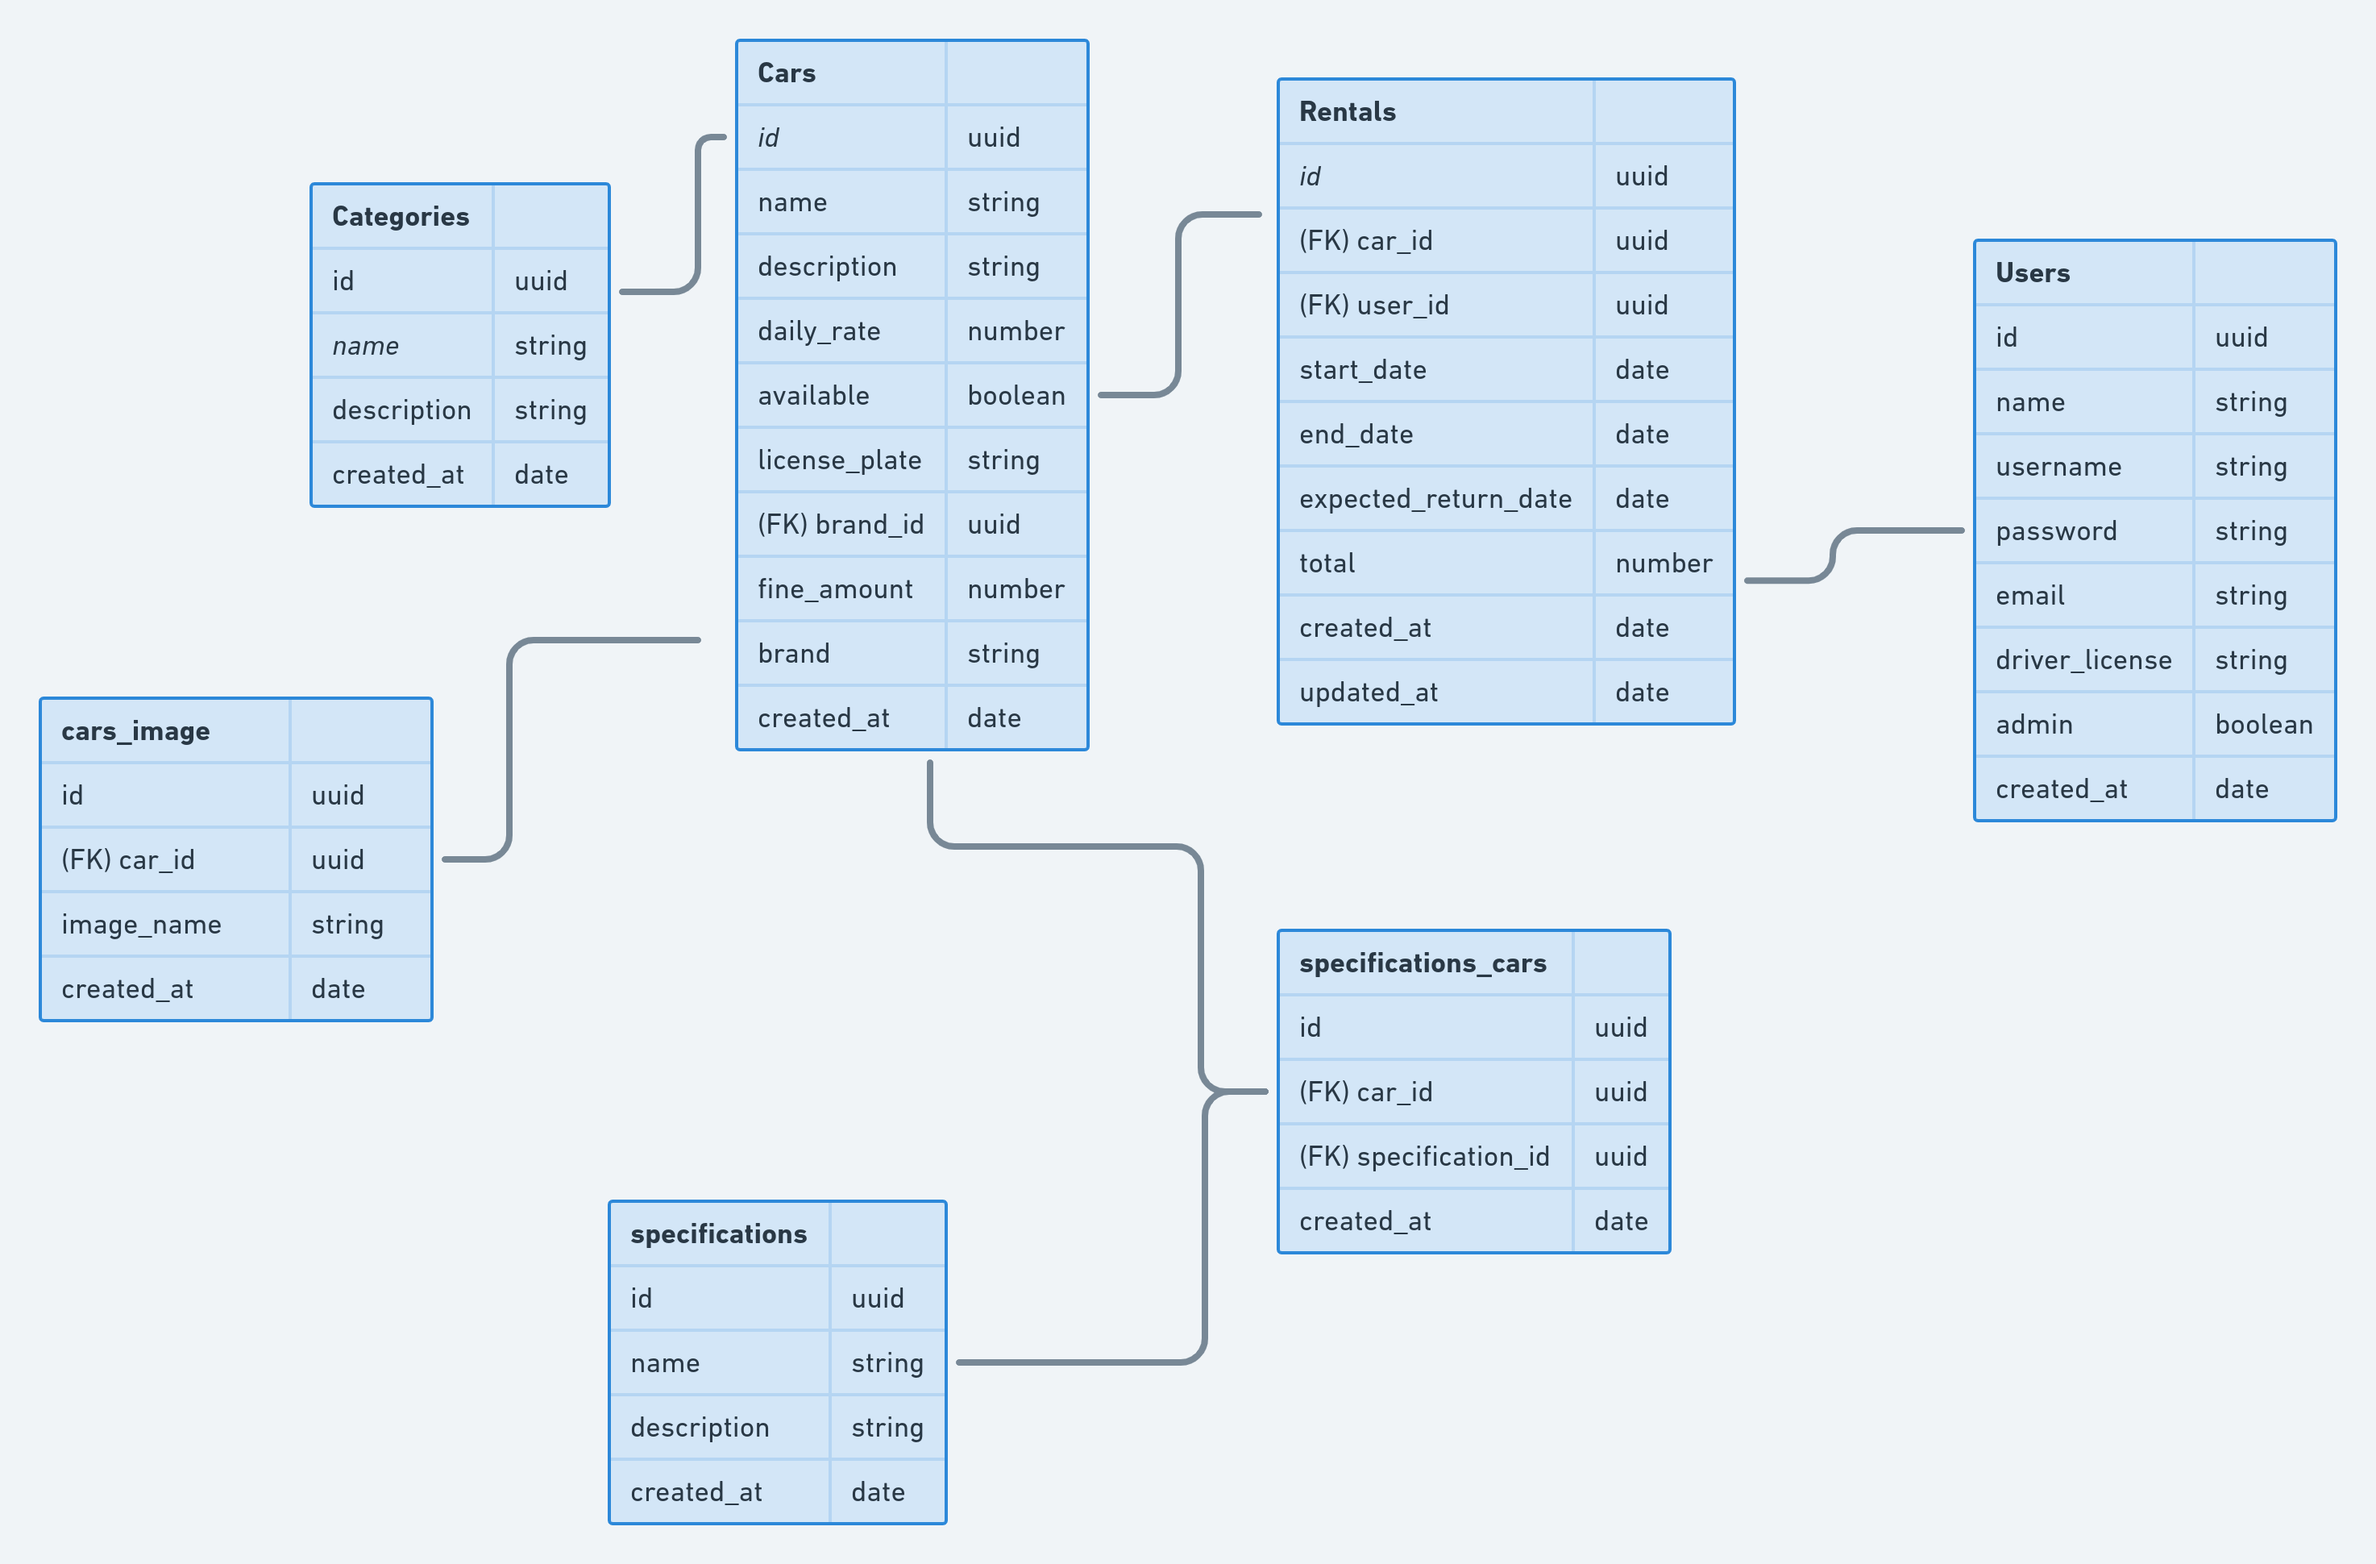
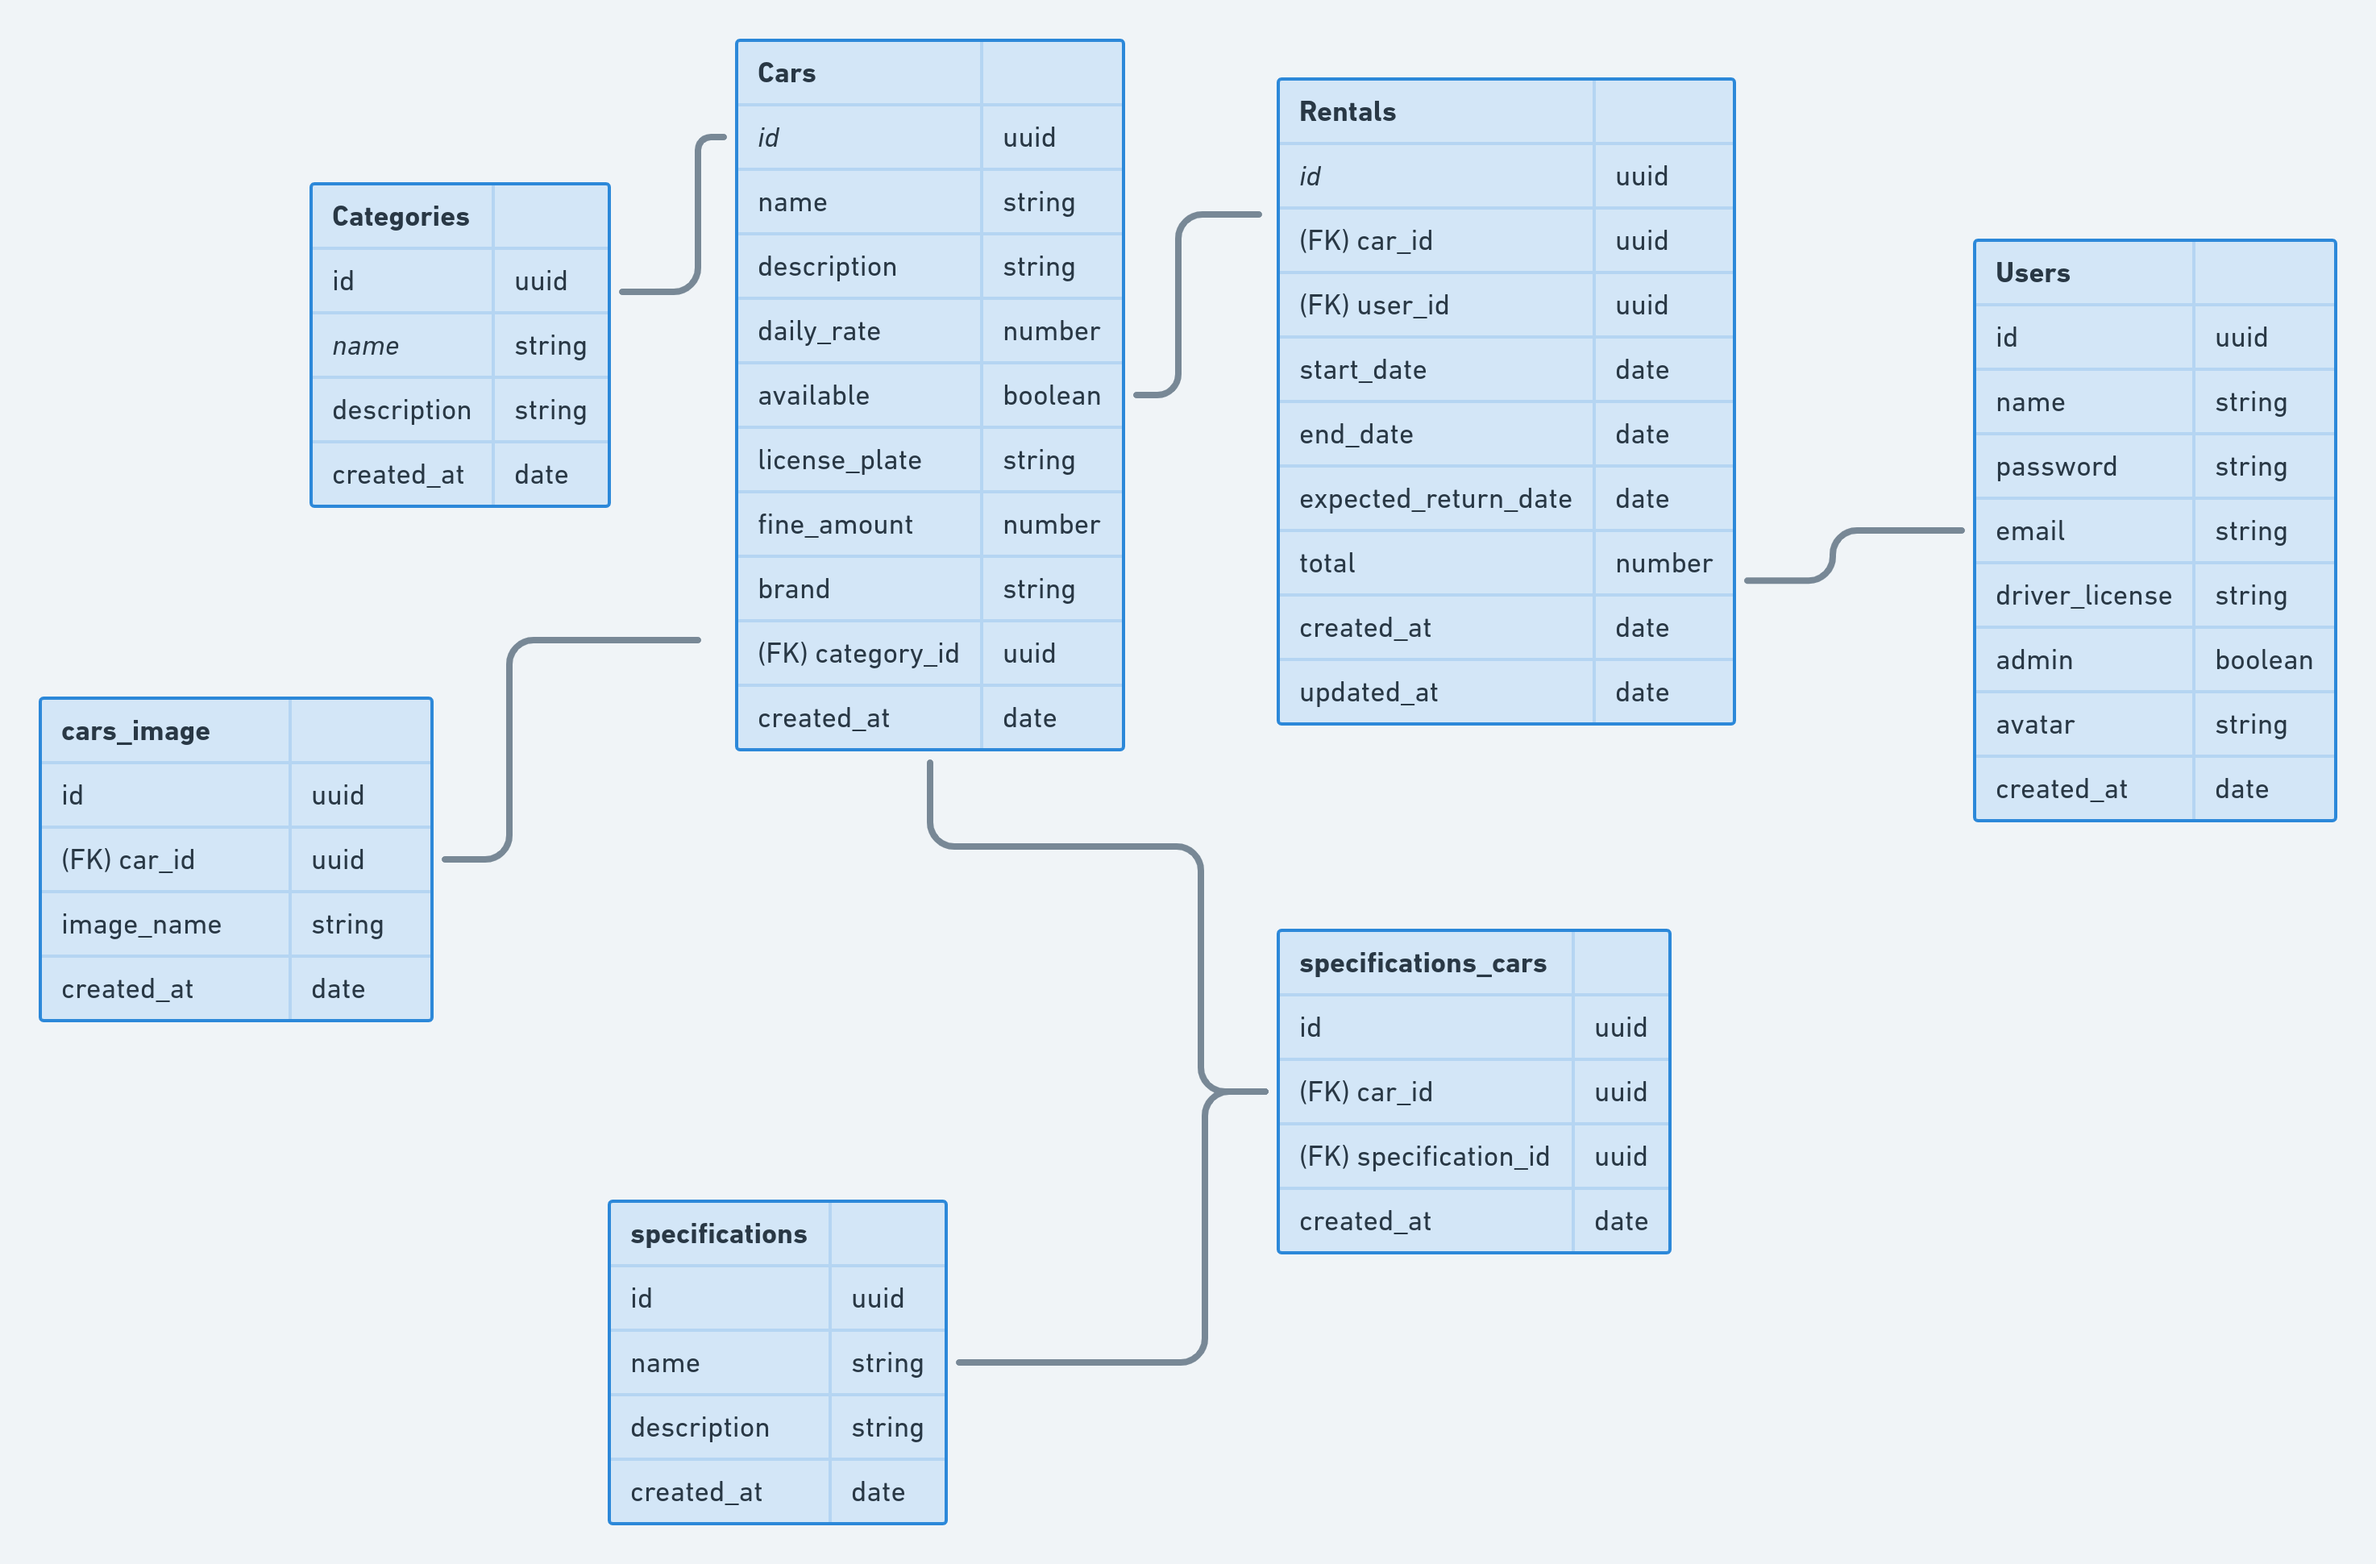
add Car Entity

diff --git a/src/modules/cars/useCases/createCar/CreateCarUseCase.spec.ts b/src/modules/cars/useCases/createCar/CreateCarUseCase.spec.ts
@@ -1,0 +1,60 @@
+import { CarsRepositoryInMemory } from "@modules/cars/repositories/in-memory/CarsRepositoryInMemory";
+import { AppError } from "@shared/errors/AppError";
+
+import { CreateCarUseCase } from "./CreateCarUseCase";
+
+let createCarUseCase: CreateCarUseCase;
+let carsRepositoryInMemory: CarsRepositoryInMemory;
+
+describe("Create car", () => {
+  beforeEach(() => {
+    carsRepositoryInMemory = new CarsRepositoryInMemory();
+    createCarUseCase = new CreateCarUseCase(carsRepositoryInMemory);
+  });
+  it("should be able to create a new car", () => {
+    const car = createCarUseCase.execute({
+      name: "Car name",
+      description: "Description name",
+      brand: "Car brand",
+      category_id: "category",
+      daily_rate: 100,
+      fine_amount: 500,
+      license_plate: "1234-ABC",
+    });
+    expect(car).toHaveProperty("id");
+  });
+  it("should not be able to create a car with the same license plate", () => {
+    expect(async () => {
+      await createCarUseCase.execute({
+        name: "Car name 01",
+        description: "Description name",
+        brand: "Car brand",
+        category_id: "category",
+        daily_rate: 100,
+        fine_amount: 500,
+        license_plate: "1234-ABC",
+      });
+      await createCarUseCase.execute({
+        name: "Car name 02",
+        description: "Description name",
+        brand: "Car brand",
+        category_id: "category",
+        daily_rate: 100,
+        fine_amount: 500,
+        license_plate: "1234-ABC",
+      });
+    }).rejects.toBeInstanceOf(AppError);
+  });
+  it("should be able to create a car with available true by default", async () => {
+    const car = await createCarUseCase.execute({
+      name: "Car Available",
+      description: "Description name",
+      brand: "Car brand",
+      category_id: "category",
+      daily_rate: 100,
+      fine_amount: 500,
+      license_plate: "12345-ABC",
+    });
+    expect(car.available).toBe(true);
+  });
+});

diff --git a/src/shared/infra/typeorm/migrations/1628206383263-CreateCars.ts b/src/shared/infra/typeorm/migrations/1628206383263-CreateCars.ts
@@ -1,0 +1,71 @@
+import { MigrationInterface, QueryRunner, Table } from "typeorm";
+
+export class CreateCars1628206383263 implements MigrationInterface {
+  public async up(queryRunner: QueryRunner): Promise<void> {
+    await queryRunner.createTable(
+      new Table({
+        name: "cars",
+        columns: [
+          {
+            name: "id",
+            type: "uuid",
+            isPrimary: true,
+          },
+          {
+            name: "name",
+            type: "varchar",
+          },
+          {
+            name: "description",
+            type: "varchar",
+          },
+          {
+            name: "daily_rate",
+            type: "numeric",
+          },
+          {
+            name: "available",
+            type: "boolean",
+            default: true,
+          },
+          {
+            name: "license_plate",
+            type: "varchar",
+          },
+          {
+            name: "fine_amount",
+            type: "numeric",
+          },
+          {
+            name: "brand",
+            type: "varchar",
+          },
+          {
+            name: "category_id",
+            type: "uuid",
+            isNullable: true,
+          },
+          {
+            name: "created_at",
+            type: "timestamp",
+            default: "now()",
+          },
+        ],
+        foreignKeys: [
+          {
+            name: "FKCategoryCar",
+            referencedTableName: "categories",
+            referencedColumnNames: ["id"],
+            columnNames: ["category_id"],
+            onDelete: "SET NULL",
+            onUpdate: "SET NULL",
+          },
+        ],
+      })
+    );
+  }
+
+  public async down(queryRunner: QueryRunner): Promise<void> {
+    await queryRunner.dropTable("cars");
+  }
+}

diff --git a/src/modules/cars/useCases/createCar/CreateCarUseCase.ts b/src/modules/cars/useCases/createCar/CreateCarUseCase.ts
@@ -1,0 +1,45 @@
+import { Car } from "@modules/cars/infra/typeorm/entities/Car";
+import { CarsRepositoryInMemory } from "@modules/cars/repositories/in-memory/CarsRepositoryInMemory";
+import { AppError } from "@shared/errors/AppError";
+
+interface IRequest {
+  name: string;
+  description: string;
+  daily_rate: number;
+  license_plate: string;
+  fine_amount: number;
+  brand: string;
+  category_id: string;
+}
+
+class CreateCarUseCase {
+  constructor(private carsRepository: CarsRepositoryInMemory) {}
+  async execute({
+    name,
+    description,
+    brand,
+    category_id,
+    daily_rate,
+    fine_amount,
+    license_plate,
+  }: IRequest): Promise<Car> {
+    const carAlreadyExists = await this.carsRepository.findByLicensePlate(
+      license_plate
+    );
+    if (carAlreadyExists) {
+      throw new AppError("Car already exists");
+    }
+    const car = await this.carsRepository.create({
+      name,
+      description,
+      brand,
+      category_id,
+      daily_rate,
+      fine_amount,
+      license_plate,
+    });
+    return car;
+  }
+}
+
+export { CreateCarUseCase };

diff --git a/src/modules/cars/repositories/in-memory/CarsRepositoryInMemory.ts b/src/modules/cars/repositories/in-memory/CarsRepositoryInMemory.ts
@@ -1,0 +1,36 @@
+import { ICreateCarDTO } from "@modules/cars/dtos/ICreateCarDTO";
+import { Car } from "@modules/cars/infra/typeorm/entities/Car";
+
+import { ICarsRepository } from "../IcarsRepository";
+
+class CarsRepositoryInMemory implements ICarsRepository {
+  cars: Car[] = [];
+
+  async create({
+    name,
+    description,
+    brand,
+    category_id,
+    daily_rate,
+    fine_amount,
+    license_plate,
+  }: ICreateCarDTO): Promise<Car> {
+    const car = new Car();
+    Object.assign(car, {
+      name,
+      description,
+      brand,
+      category_id,
+      daily_rate,
+      fine_amount,
+      license_plate,
+    });
+    this.cars.push(car);
+    return car;
+  }
+  async findByLicensePlate(license_plate: string): Promise<Car> {
+    return this.cars.find((car) => car.license_plate === license_plate);
+  }
+}
+
+export { CarsRepositoryInMemory };

diff --git a/src/modules/cars/infra/typeorm/entities/Car.ts b/src/modules/cars/infra/typeorm/entities/Car.ts
@@ -1,0 +1,33 @@
+import { v4 as uuidV4 } from "uuid";
+
+class Car {
+  id: string;
+
+  name: string;
+
+  description: string;
+
+  daily_rate: number;
+
+  available: boolean;
+
+  license_plate: string;
+
+  fine_amount: number;
+
+  brand: string;
+
+  created_at: Date;
+
+  category_id: string;
+
+  constructor() {
+    if (!this.id) {
+      this.id = uuidV4();
+      this.available = true;
+      this.created_at = new Date();
+    }
+  }
+}
+
+export { Car };

diff --git a/src/modules/accounts/repositories/in-memory/UsersRepositoryInMemory.ts b/src/modules/accounts/repositories/in-memory/UsersRepositoryInMemory.ts
@@ -1,5 +1,6 @@
-import { ICreateUserDTO } from "../../dtos/ICreateUserDTO";
-import { User } from "../../infra/typeorm/entities/User";
+import { ICreateUserDTO } from "@modules/accounts/dtos/ICreateUserDTO";
+import { User } from "@modules/accounts/infra/typeorm/entities/User";
+
 import { IUsersRepository } from "../IUserRepository";
 
 class UsersRepositoryInMemory implements IUsersRepository {

diff --git a/src/modules/cars/repositories/IcarsRepository.ts b/src/modules/cars/repositories/IcarsRepository.ts
@@ -1,0 +1,9 @@
+import { ICreateCarDTO } from "../dtos/ICreateCarDTO";
+import { Car } from "../infra/typeorm/entities/Car";
+
+interface ICarsRepository {
+  create(data: ICreateCarDTO): Promise<Car>;
+  findByLicensePlate(license_plate: string): Promise<Car>;
+}
+
+export { ICarsRepository };

diff --git a/src/modules/cars/dtos/ICreateCarDTO.ts b/src/modules/cars/dtos/ICreateCarDTO.ts
@@ -1,0 +1,11 @@
+interface ICreateCarDTO {
+  name: string;
+  description: string;
+  daily_rate: number;
+  license_plate: string;
+  fine_amount: number;
+  brand: string;
+  category_id: string;
+}
+
+export { ICreateCarDTO };

diff --git a/src/modules/cars/repositories/in-memory/CategoriesRepositoryInMemory.ts b/src/modules/cars/repositories/in-memory/CategoriesRepositoryInMemory.ts
@@ -1,4 +1,5 @@
-import { Category } from "../../infra/typeorm/entities/Category";
+import { Category } from "@modules/cars/infra/typeorm/entities/Category";
+
 import {
   ICategoriesRepository,
   ICreateCategoryDTO,

diff --git a/README.md b/README.md
@@ -1,0 +1,56 @@
+# Cadastro de carros
+
+**RF**
+Deve ser possível cadastrar um carro.
+
+**RN**
+Não deve ser possível cadastrar um carro com placa já existente.
+Não deve ser possível alterar a placa de um carro ja cadastrado.
+O carro deve ser cadastrado, por padrão, com disponibilidade.
+O usuário responsável pelo cadastro deve ser um usuário administrador.
+
+# Listagem de carros
+
+**RF**
+Deve ser possível listar todos os carros disponíveis.
+Deve ser possível listar todos os carros disponíveis pelo nome da categoria.
+Deve ser possível listar todos os carros disponíveis pelo nome da marca.
+Deve ser possível listar todos os carros disponíveis pelo nome do carro.
+
+**RN**
+O usuário não precisa estar logado no sistema.
+
+# Cadastro de especificação do carro
+
+**RF**
+Deve ser possível cadastrar uma especificação para um carro.
+Deve ser possível listar todas as especificações.
+Deve ser possível listar todos os carros.
+
+**RN**
+Não deve ser possível cadastrar uma especificação para um carro não cadastrado.
+Não deve ser possível cadastrar uma especificação ja existente para o mesmo carro.
+O usuário responsável pelo cadastro deve ser um usuário administrador.
+
+# Cadastro de imagens do carro
+
+**RF**
+Deve ser possível cadastrar uma imagem para o carro.
+Deve ser possível listar todos os carros. 
+
+**RNF**
+Utilizar o multer para upload dos arquivos.
+
+**RN**
+O usuário poderá cadastrar mais de uma imagem para o mesmo carro.
+O usuário responsável pelo cadastro deve ser um usuário administrador.
+
+# Aluguel de carros
+
+**RF**
+Deve ser possível cadastrar um aluguel de carro
+
+**RN**
+O aluguel deve ter duração mínima de 24 horas.
+Não deve ser possível cadastrar um novo aluguel caso ja exista um aberto para o mesmo usuário.
+Não deve ser possível cadastrar um novo aluguel caso ja exista um aberto para o mesmo carro.
